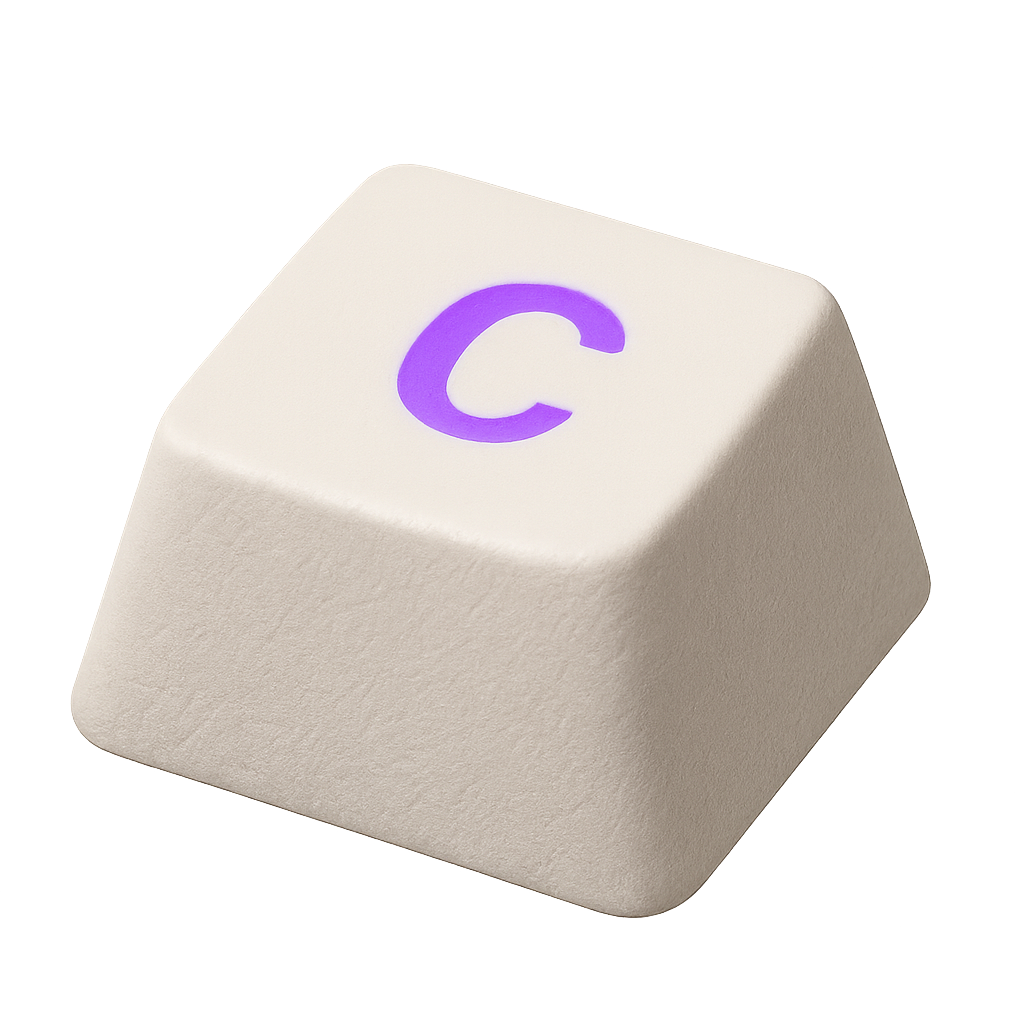
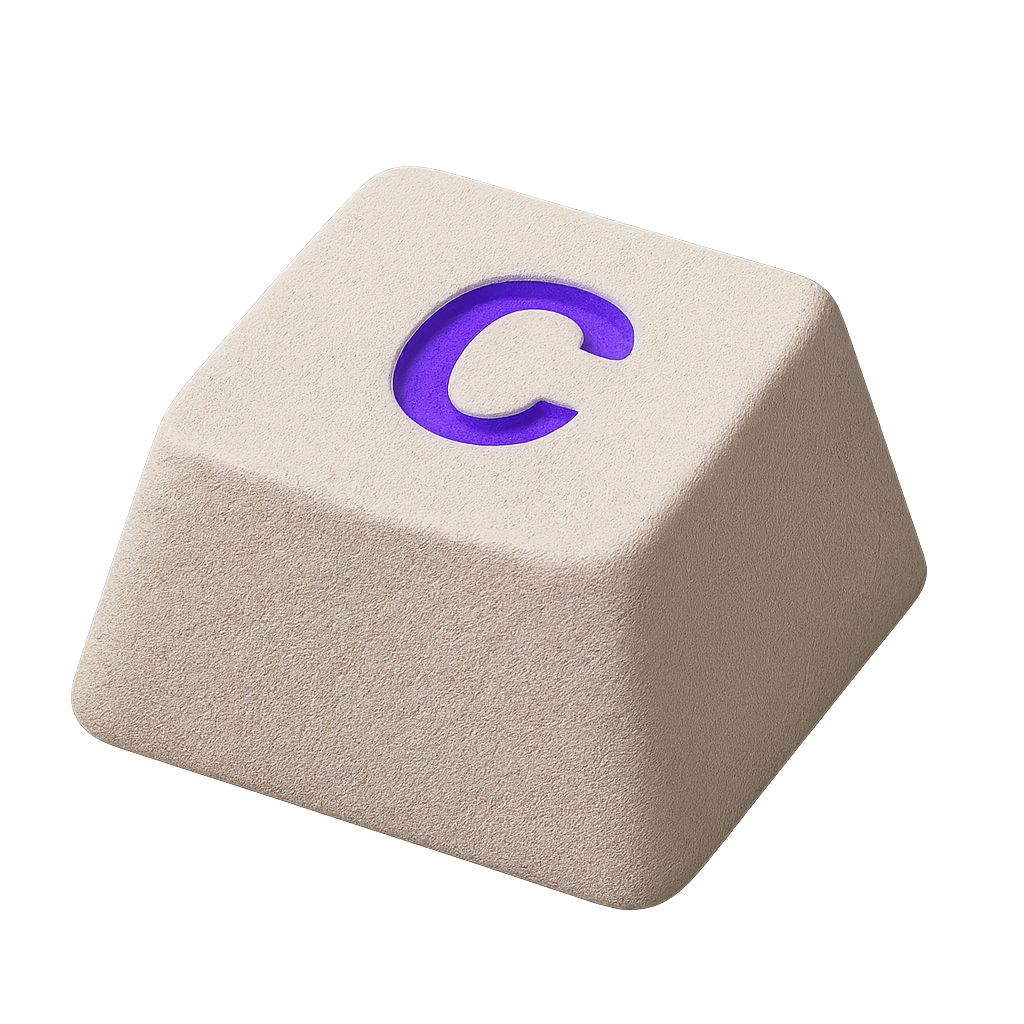
branded meta key asset, adjust keycap animation timing

Changed region(s): [[0.0625, 0.1875, 0.9062, 0.9062]]

diff --git a/packages/mcp-cloudflare/src/client/components/animation/terminal-ui/Paste.tsx b/packages/mcp-cloudflare/src/client/components/animation/terminal-ui/Paste.tsx
@@ -9,16 +9,16 @@ export default function Paste({ step }: { step?: number }) {
       >
         {/* <div className="absolute bottom-0 left-1/2 h-[69%] w-[72.5%] -translate-x-[51%] rotate-x-50 rotate-z-27 rounded-3xl rounded-br-2xl bg-[#160f24] perspective-distant" /> */}
         <div className="[mask-image:url('/keycap-⌘.png')] [mask-size:100%] bg-clip-content size-fit relative [filter:drop-shadow(inset_0_-1rem_1rem_rgba(0,0,0,1))] translate-y-2">
-          <div className="absolute bottom-0 left-1/2 h-[69%] w-[72.5%] -translate-x-[51%] rotate-x-50 rotate-z-27 rounded-3xl rounded-br-2xl bg-[#160f24] perspective-distant" />
+          <div className="absolute bottom-0 left-1/2 h-[69%] w-[75%] -translate-x-[51%] rotate-x-50 rotate-z-27 rounded-3xl rounded-br-2xl rounded-tr-2xl bg-[#160f2488] perspective-distant -z-10" />
           <img
             className={`${
               step === 0 && "animate-keycap-inner-meta"
             } bg-clip-content`}
             src="/keycap-⌘.png"
             alt="keycap-⌘"
-            style={{ ["--delay" as any]: "1.80s" }}
+            style={{ ["--delay" as any]: "2.05s" }}
           />
-          <div className="absolute inset-0 bg-gradient-to-t from-black/50 via-transparent to-transparent" />
+          <div className="absolute inset-0 bg-gradient-to-t from-black/50 via-30% via-transparent to-transparent z-10" />
         </div>
       </div>
       <div
@@ -29,16 +29,16 @@ export default function Paste({ step }: { step?: number }) {
       >
         {/* <div className="absolute bottom-0 left-1/2 h-[69%] w-[72.5%] -translate-x-[51%] rotate-x-50 rotate-z-27 rounded-3xl rounded-br-2xl bg-[#160f24] perspective-distant" /> */}
         <div className="[mask-image:url('/keycap-v.png')] [mask-size:100%] bg-clip-content size-fit relative [filter:drop-shadow(inset_0_-1rem_1rem_rgba(0,0,0,1))] translate-y-2">
-          <div className="absolute bottom-0 left-1/2 h-[69%] w-[72.5%] -translate-x-[51%] rotate-x-50 rotate-z-27 rounded-3xl rounded-br-2xl bg-[#160f24] perspective-distant" />
+          <div className="absolute bottom-0 left-1/2 h-[69%] w-[72.5%] -translate-x-[51%] rotate-x-50 rotate-z-27 rounded-3xl rounded-br-2xl bg-[#160f2488] perspective-distant -z-10" />
           <img
             className={`${
               step === 0 && "animate-keycap-inner"
             } bg-clip-content`}
             src="/keycap-v.png"
             alt="keycap-v"
-            style={{ ["--delay" as any]: "2.15s" }}
+            style={{ ["--delay" as any]: "2.30s" }}
           />
-          <div className="absolute inset-0 bg-gradient-to-t from-black/50 via-transparent to-transparent" />
+          <div className="absolute inset-0 bg-gradient-to-t from-black/50 via-30% via-transparent to-transparent z-10" />
         </div>
       </div>
     </div>

diff --git a/packages/mcp-cloudflare/src/client/components/animation/browser-ui/Copy.tsx b/packages/mcp-cloudflare/src/client/components/animation/browser-ui/Copy.tsx
@@ -9,16 +9,16 @@ export default function Copy({ step }: { step?: number }) {
       >
         {/* <div className="absolute bottom-0 left-1/2 h-[69%] w-[72.5%] -translate-x-[51%] rotate-x-50 rotate-z-27 rounded-3xl rounded-br-2xl bg-[#160f24] perspective-distant" /> */}
         <div className="[mask-image:url('/keycap-⌘.png')] [mask-size:100%] bg-clip-content size-fit relative [filter:drop-shadow(inset_0_-1rem_1rem_rgba(0,0,0,1))] translate-y-2">
-          <div className="absolute bottom-0 left-1/2 h-[69%] w-[72.5%] -translate-x-[51%] rotate-x-50 rotate-z-27 rounded-3xl rounded-br-2xl bg-[#160f24] perspective-distant" />
+          <div className="absolute bottom-0 left-1/2 h-[69%] w-[75%] -translate-x-[51%] rotate-x-50 rotate-z-27 rounded-3xl rounded-br-2xl rounded-tr-2xl bg-[#160f2488] perspective-distant -z-10" />
           <img
             className={`${
               step === 0 && "animate-keycap-inner-meta"
             } bg-clip-content`}
             src="/keycap-⌘.png"
             alt="keycap-⌘"
-            style={{ ["--delay" as any]: "1.05s" }}
+            style={{ ["--delay" as any]: "1.20s" }}
           />
-          <div className="absolute inset-0 bg-gradient-to-t from-black/50 via-transparent to-transparent" />
+          <div className="absolute inset-0 bg-gradient-to-t from-black/50 via-30% via-transparent to-transparent z-10" />
         </div>
       </div>
       <div
@@ -29,16 +29,16 @@ export default function Copy({ step }: { step?: number }) {
       >
         {/* <div className="absolute bottom-0 left-1/2 h-[69%] w-[72.5%] -translate-x-[51%] rotate-x-50 rotate-z-27 rounded-3xl rounded-br-2xl bg-[#160f24] perspective-distant" /> */}
         <div className="[mask-image:url('/keycap-c.png')] [mask-size:100%] bg-clip-content size-fit relative [filter:drop-shadow(inset_0_-1rem_1rem_rgba(0,0,0,1))] translate-y-2">
-          <div className="absolute bottom-0 left-1/2 h-[69%] w-[72.5%] -translate-x-[51%] rotate-x-50 rotate-z-27 rounded-3xl rounded-br-2xl bg-[#160f24] perspective-distant" />
+          <div className="absolute bottom-0 left-1/2 h-[69%] w-[72.5%] -translate-x-[51%] rotate-x-50 rotate-z-27 rounded-3xl rounded-br-2xl bg-[#160f2488] perspective-distant -z-10" />
           <img
             className={`${
               step === 0 && "animate-keycap-inner"
             } bg-clip-content`}
             src="/keycap-c.png"
             alt="keycap-c"
-            style={{ ["--delay" as any]: "1.30s" }}
+            style={{ ["--delay" as any]: "1.35s" }}
           />
-          <div className="absolute inset-0 bg-gradient-to-t from-black/50 via-transparent to-transparent" />
+          <div className="absolute inset-0 bg-gradient-to-t from-black/50 via-30% via-transparent to-transparent z-10" />
         </div>
       </div>
     </div>

diff --git a/packages/mcp-cloudflare/src/client/index.css b/packages/mcp-cloudflare/src/client/index.css
@@ -182,7 +182,7 @@
 @keyframes keycapPulse {
   0% {
     opacity: 0;
-    transform: translateY(4px) scale(0.98);
+    transform: translateY(0.75rem) scale(0.98);
   }
 
   11% {
@@ -199,7 +199,7 @@
   /* hold 300ms */
   100% {
     opacity: 0;
-    transform: translateY(-2px) scale(0.985);
+    transform: translateY(-1rem) scale(0.985);
   }
 
   /* fade-out (~120ms) */
@@ -212,31 +212,34 @@
 
 @keyframes keyPress {
   0% {
-    transform: translateY(0.5rem) scale(1);
+    filter: brightness(0.85);
+    transform: translateY(0rem) scale(1);
   }
 
   30% {
-    filter: brightness(0.75);
+    filter: brightness(1.25);
     transform: translateY(2.5rem) scale(0.95);
   }
 
   100% {
+    filter: brightness(0.95);
     transform: translateY(0.5rem) scale(1);
   }
 }
 
 @keyframes metaKeyPress {
   0% {
-    transform: translateY(0.5rem) scale(1);
+    filter: brightness(0.95);
+    transform: translateY(0rem) scale(1);
   }
 
   30% {
-    filter: brightness(0.95);
-    transform: translateY(2rem) scale(0.95);
+    filter: brightness(1.25);
+    transform: translateY(2.5rem) scale(0.95);
   }
 
   100% {
-    filter: brightness(0.8);
+    filter: brightness(1.1);
     transform: translateY(2rem) scale(0.95);
   }
 }

diff --git a/packages/mcp-cloudflare/src/client/components/animation/TerminalAnimation.tsx b/packages/mcp-cloudflare/src/client/components/animation/TerminalAnimation.tsx
@@ -47,7 +47,7 @@ export default function TerminalAnimation({
       description: "Copy the Sentry issue url directly from your browser",
       startTime: 31.6,
       startSpeed: 5,
-      autoContinueMs: 2300,
+      autoContinueMs: 2500,
       autoPlay: false,
       lines: 5,
     },
